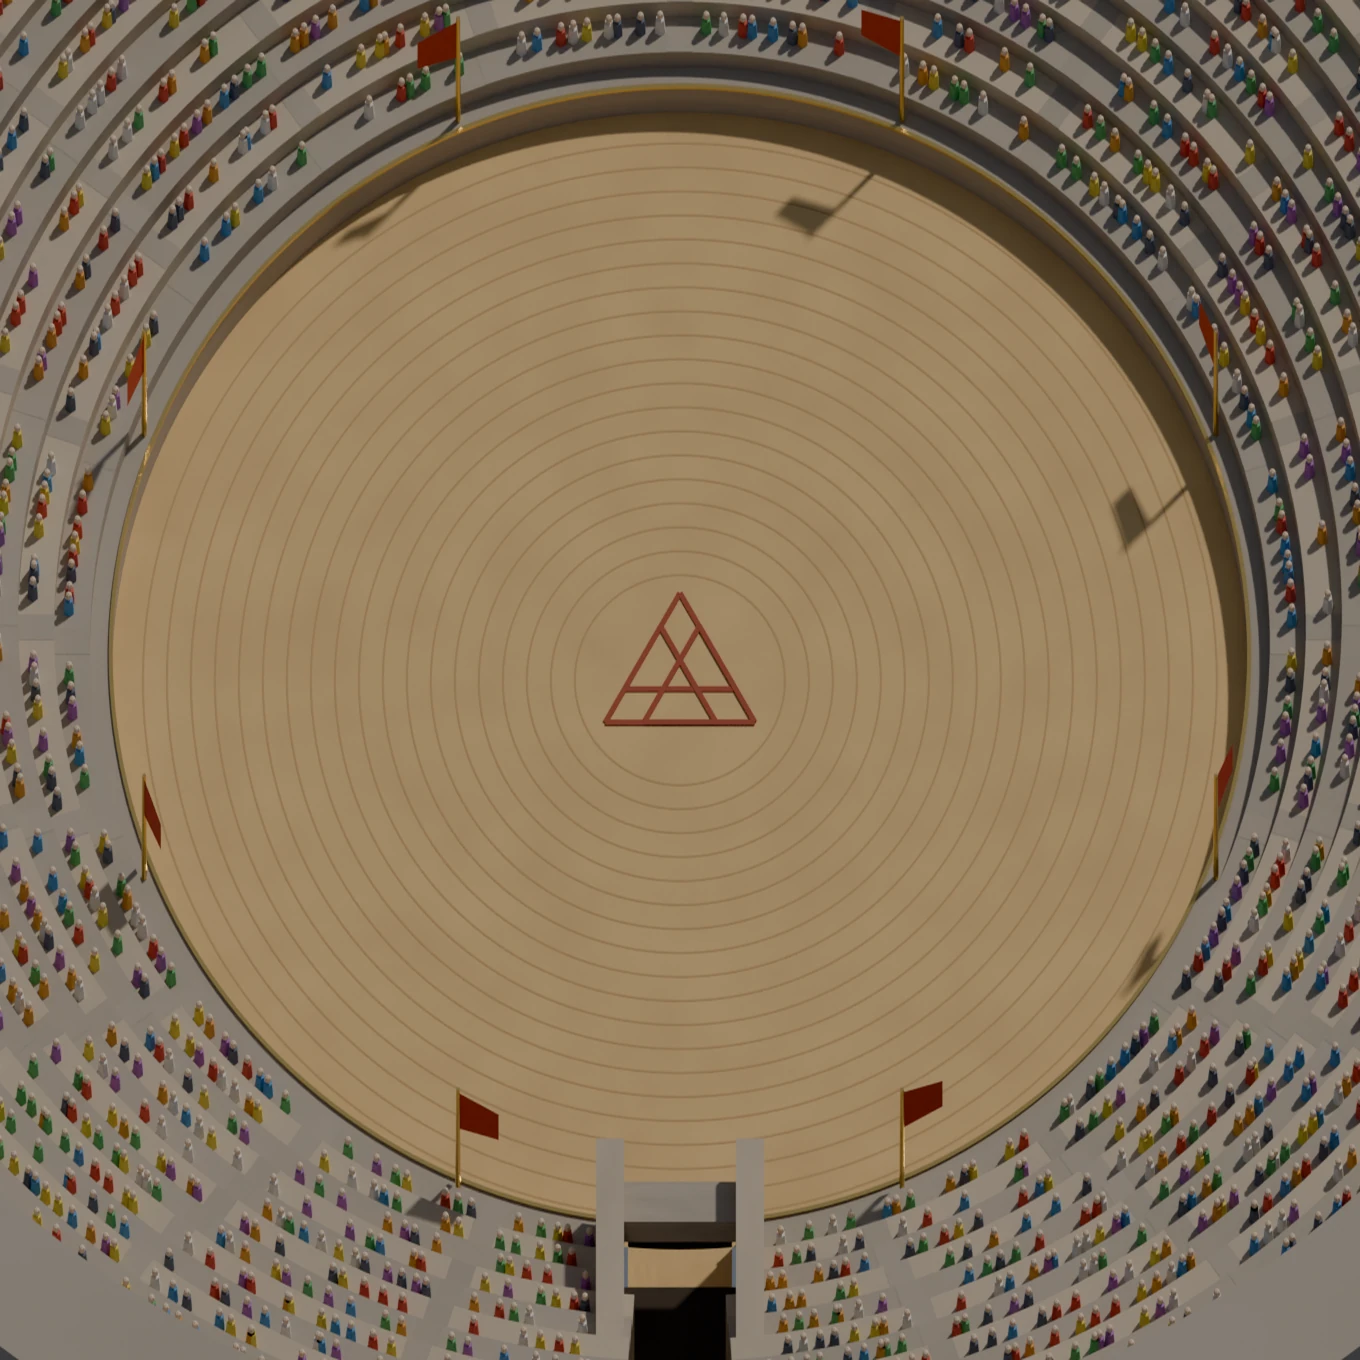
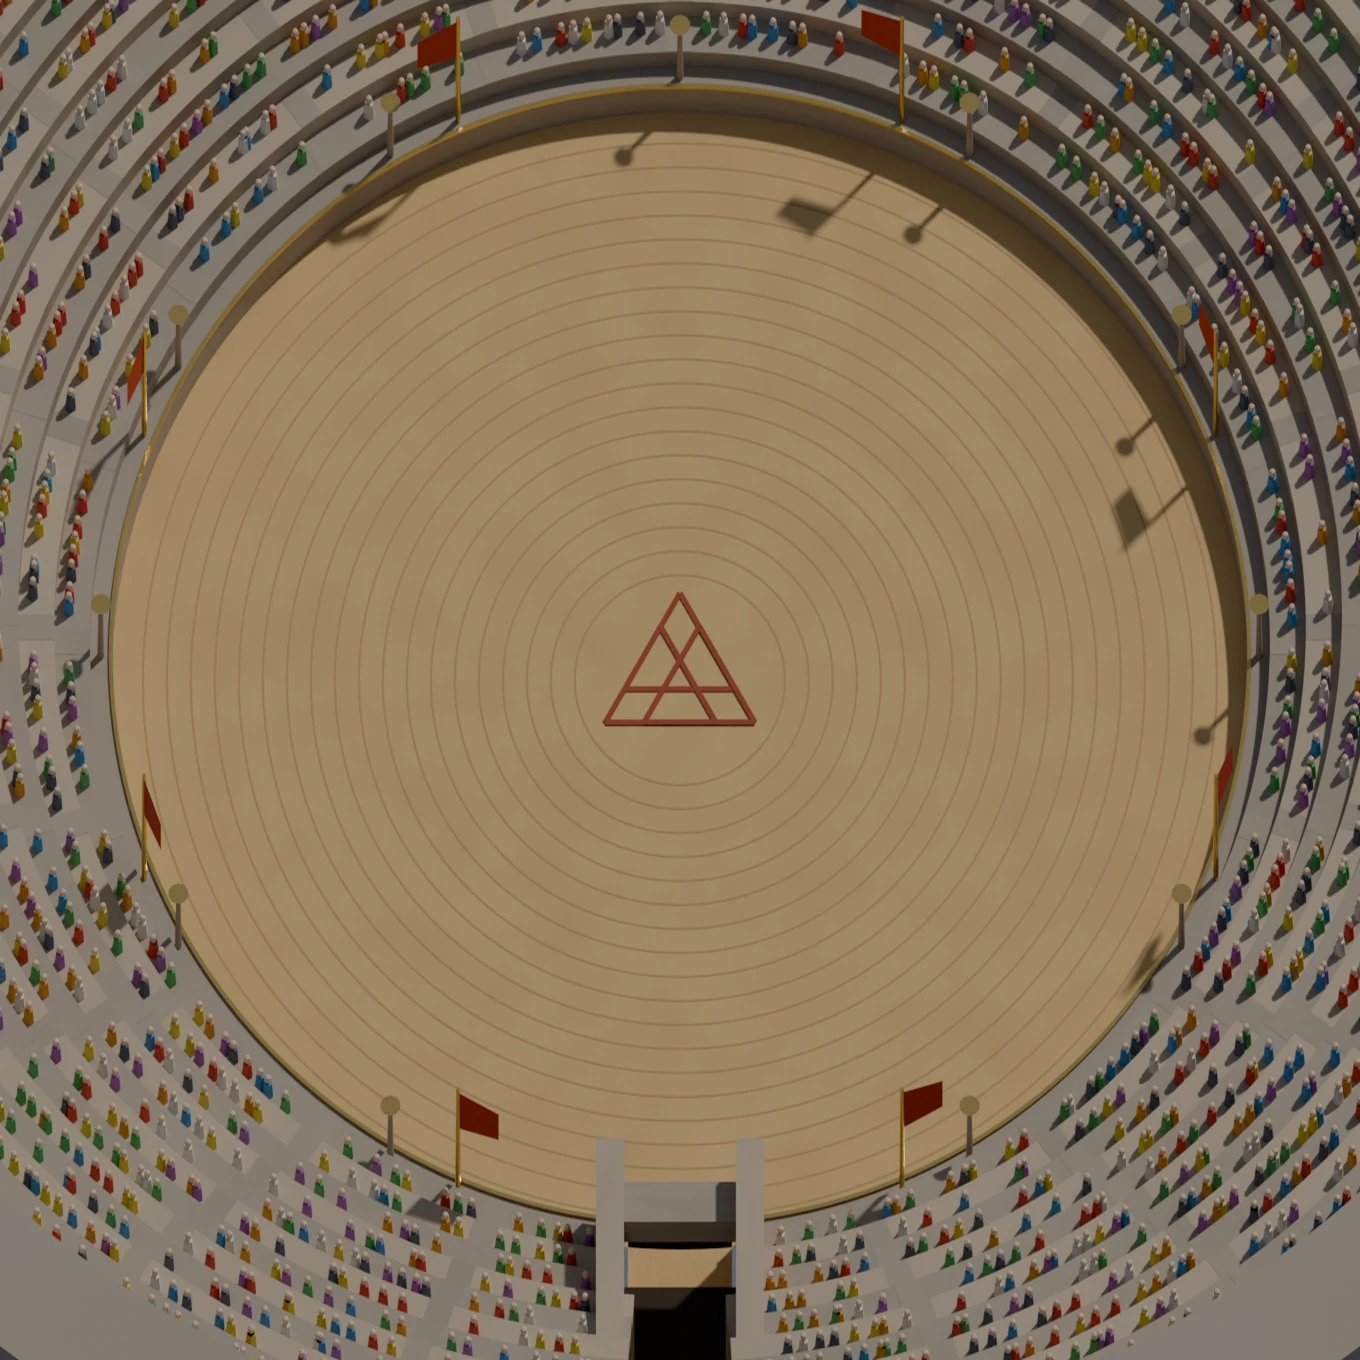
Colosseum life: 11 torches (poles and bowls in the 3D render, animated flames with embers and glow in game), crowd excitement driven by fights in the arena with murmurs, confetti from the stands and a full cheer wave sweeping the tiers with a roar
Claude-Session: https://claude.ai/code/session_017QrEU6PVR1NvrPzc5r5uQv

diff --git a/index.html b/index.html
@@ -13,8 +13,8 @@
   <meta name="description" content="IRON VALHALLA — เกม RPG หุ่นยนต์แอนดรอยด์ในโลกตำนานนอร์ส เล่นบนเบราว์เซอร์">
   <link rel="preconnect" href="https://fonts.googleapis.com">
   <link href="https://fonts.googleapis.com/css2?family=Cinzel:wght@600;800&family=Kanit:wght@400;500;600;700;800&family=Noto+Sans+Thai:wght@400;500;600;700&family=IBM+Plex+Sans+Thai:wght@400;500;600&family=IBM+Plex+Mono:wght@500;600&display=swap" rel="stylesheet">
-  <link rel="stylesheet" href="css/style.css?v=202610021629">
-  <link rel="stylesheet" href="css/visor.css?v=202610021629">
+  <link rel="stylesheet" href="css/style.css?v=202610021637">
+  <link rel="stylesheet" href="css/visor.css?v=202610021637">
 </head>
 <body class="visor">
   <canvas id="cv"></canvas>
@@ -284,52 +284,52 @@
   </div>
 
   <script src="https://cdn.jsdelivr.net/npm/@supabase/supabase-js@2.45.4/dist/umd/supabase.min.js"></script>
-  <script src="js/i18n.js?v=202610021629"></script>
-  <script src="js/online.config.js?v=202610021629"></script>
-  <script src="js/data.js?v=202610021629"></script>
-  <script src="js/art.js?v=202610021629"></script>
-  <script src="js/util.js?v=202610021629"></script>
-  <script src="js/maps.js?v=202610021629"></script>
-  <script src="js/flora.js?v=202610021629"></script>
-  <script src="js/townmap.js?v=202610021629"></script>
-  <script src="js/world.js?v=202610021629"></script>
-  <script src="js/sprites.js?v=202610021629"></script>
-  <script src="js/rig.js?v=202610021629"></script>
-  <script src="js/pose.js?v=202610021629"></script>
-  <script src="js/anim.js?v=202610021629"></script>
-  <script src="js/paperdoll_data.js?v=202610021629"></script>
-  <script src="js/paperdoll_fix.js?v=202610021629"></script>
-  <script src="js/paperdoll_depth.js?v=202610021629"></script>
-  <script src="js/paperdoll.js?v=202610021629"></script>
-  <script src="js/armed_trail.js?v=202610021629"></script>
-  <script src="js/weapontrail.js?v=202610021629"></script>
-  <script src="js/sound.js?v=202610021629"></script>
-  <script src="js/music.js?v=202610021629"></script>
-  <script src="js/title.js?v=202610021629"></script>
-  <script src="js/passive.js?v=202610021629"></script>
-  <script src="js/game.js?v=202610021629"></script>
-  <script src="js/npc.js?v=202610021629"></script>
-  <script src="js/bot.js?v=202610021629"></script>
-  <script src="js/online.js?v=202610021629"></script>
-  <script src="js/party.js?v=202610021629"></script>
-  <script src="js/trade.js?v=202610021629"></script>
-  <script src="js/fx2.js?v=202610021629"></script>
-  <script src="js/juice.js?v=202610021629"></script>
-  <script src="js/render.js?v=202610021629"></script>
-  <script src="js/ui.js?v=202610021629"></script>
-  <script src="js/pad.js?v=202610021629"></script>
-  <script src="js/nav.js?v=202610021629"></script>
-  <script src="js/quest.js?v=202610021629"></script>
-  <script src="js/daily.js?v=202610021629"></script>
-  <script src="js/story.js?v=202610021629"></script>
-  <script src="js/content_ch6.js?v=202610021629"></script>
-  <script src="js/loot.js?v=202610021629"></script>
-  <script src="js/balance.js?v=202610021629"></script>
-  <script src="js/worldboss.js?v=202610021629"></script>
-  <script src="js/classbook.js?v=202610021629"></script>
-  <script src="js/gacha.js?v=202610021629"></script>
-  <script src="js/emote.js?v=202610021629"></script>
-  <script src="js/feel.js?v=202610021629"></script>
-  <script src="js/main.js?v=202610021629"></script>
+  <script src="js/i18n.js?v=202610021637"></script>
+  <script src="js/online.config.js?v=202610021637"></script>
+  <script src="js/data.js?v=202610021637"></script>
+  <script src="js/art.js?v=202610021637"></script>
+  <script src="js/util.js?v=202610021637"></script>
+  <script src="js/maps.js?v=202610021637"></script>
+  <script src="js/flora.js?v=202610021637"></script>
+  <script src="js/townmap.js?v=202610021637"></script>
+  <script src="js/world.js?v=202610021637"></script>
+  <script src="js/sprites.js?v=202610021637"></script>
+  <script src="js/rig.js?v=202610021637"></script>
+  <script src="js/pose.js?v=202610021637"></script>
+  <script src="js/anim.js?v=202610021637"></script>
+  <script src="js/paperdoll_data.js?v=202610021637"></script>
+  <script src="js/paperdoll_fix.js?v=202610021637"></script>
+  <script src="js/paperdoll_depth.js?v=202610021637"></script>
+  <script src="js/paperdoll.js?v=202610021637"></script>
+  <script src="js/armed_trail.js?v=202610021637"></script>
+  <script src="js/weapontrail.js?v=202610021637"></script>
+  <script src="js/sound.js?v=202610021637"></script>
+  <script src="js/music.js?v=202610021637"></script>
+  <script src="js/title.js?v=202610021637"></script>
+  <script src="js/passive.js?v=202610021637"></script>
+  <script src="js/game.js?v=202610021637"></script>
+  <script src="js/npc.js?v=202610021637"></script>
+  <script src="js/bot.js?v=202610021637"></script>
+  <script src="js/online.js?v=202610021637"></script>
+  <script src="js/party.js?v=202610021637"></script>
+  <script src="js/trade.js?v=202610021637"></script>
+  <script src="js/fx2.js?v=202610021637"></script>
+  <script src="js/juice.js?v=202610021637"></script>
+  <script src="js/render.js?v=202610021637"></script>
+  <script src="js/ui.js?v=202610021637"></script>
+  <script src="js/pad.js?v=202610021637"></script>
+  <script src="js/nav.js?v=202610021637"></script>
+  <script src="js/quest.js?v=202610021637"></script>
+  <script src="js/daily.js?v=202610021637"></script>
+  <script src="js/story.js?v=202610021637"></script>
+  <script src="js/content_ch6.js?v=202610021637"></script>
+  <script src="js/loot.js?v=202610021637"></script>
+  <script src="js/balance.js?v=202610021637"></script>
+  <script src="js/worldboss.js?v=202610021637"></script>
+  <script src="js/classbook.js?v=202610021637"></script>
+  <script src="js/gacha.js?v=202610021637"></script>
+  <script src="js/emote.js?v=202610021637"></script>
+  <script src="js/feel.js?v=202610021637"></script>
+  <script src="js/main.js?v=202610021637"></script>
 </body>
 </html>

diff --git a/js/feel.js b/js/feel.js
@@ -326,6 +326,7 @@ const Feel = (() => {
       applyHit = function (m, r) { // eslint-disable-line no-global-assign
         const res = a0.apply(this, arguments);
         try { if (m && !m.isPlayer && r && !r.miss && G.player && !G.player.dead) F.ultGain(2); } catch (e) { /* ภาพล้วน */ }
+        try { if (G.map && G.map.arena && r && !r.miss) F.cheer(r.crit ? 0.6 : m && m.isPlayer ? 0.3 : 0.12); } catch (e) { /* ภาพล้วน */ }
         return res;
       };
       applyHit._feel = true;
@@ -348,6 +349,7 @@ const Feel = (() => {
       damagePlayer = function () { // eslint-disable-line no-global-assign
         const p = G.player;
         if (p && p.invulnUntil > G.time) { if (Math.random() < 0.3) addFloater(p.x, p.y - 1.4, 'Block', '#fff1a8'); return; } // โล่วาลคิรี
+        if (G.map && G.map.arena && G.map.def.pvp) F.cheer(0.3); // โดนตีในลานประลอง = ผู้ชมฮือ
         return d0.apply(this, arguments);
       };
       damagePlayer._feel = true;
@@ -396,6 +398,49 @@ const Feel = (() => {
       if (best < 4.5) { const v = 0.022 * (1 - best / 4.5); chime(110, 0, v, 1.3); chime(165, 0.02, v * 0.6, 1.2); }
     };
     setInterval(F.warpHum, 1100);
+    // ---------- ผู้ชมโคลอสเซียม: ตื่นเต้นตามการต่อสู้ในลาน → คลื่นเชียร์รอบอัฒจันทร์ + กระดาษสีปลิว + เสียงฮือ ----------
+    F.crowd = { e: 0, wave: -9, conf: [], last: 0 };
+    F.cheer = amt => {
+      const C = F.crowd, now = performance.now() / 1000;
+      const before = C.e; C.e = Math.min(1.5, C.e + amt);
+      if (C.e >= 1 && before < 1 && now - C.wave > 4) { // ระเบิดเชียร์: คลื่นคนลุกรอบลาน + เสียงฮือดัง
+        C.wave = now;
+        if (typeof Sound !== 'undefined' && Sound.ctx && G.player.options.sound) { Sound.hiss({ ft: 'bandpass', f: 900, to: 600, q: 0.6, dur: 1.6, vol: 0.05 }); Sound.hiss({ ft: 'lowpass', f: 500, dur: 1.8, vol: 0.05 }); }
+      }
+    };
+    F.drawCrowd = (g, map, t) => {
+      const C = F.crowd, A = map.arena; if (!A) return;
+      const dt = Math.min(0.1, t - (C.last || t)); C.last = t;
+      C.e = Math.max(0, C.e - dt * 0.18);
+      const K = R.K, cx = A.cx * TILE, cy = A.cy * TILE;
+      // ฮือเบา ๆ ตามความตื่นเต้น (ทุก ~0.6 วิ)
+      if (C.e > 0.2 && Math.random() < dt * 1.6 && typeof Sound !== 'undefined' && Sound.ctx && G.player.options.sound) Sound.hiss({ ft: 'bandpass', f: 700 + Math.random() * 300, q: 0.5, dur: 0.5, vol: 0.012 * C.e });
+      // กระดาษสีปลิวจากอัฒจันทร์
+      if (C.e > 0.25 && C.conf.length < 260 * C.e) for (let i = 0; i < 6; i++) {
+        const a = Math.random() * Math.PI * 2, r = (A.r + 0.6 + Math.random() * 5) * TILE;
+        C.conf.push({ x: cx + Math.cos(a) * r, y: cy + Math.sin(a) * r, z: 30 + Math.random() * 40, vz: 60 + Math.random() * 50, vx: (Math.random() - 0.5) * 30, s: Math.random() * 6, c: ['#ffd34a', '#ff6a5a', '#ffffff', '#6ff3ff', '#c98aff'][(Math.random() * 5) | 0] });
+      }
+      g.save();
+      C.conf = C.conf.filter(q => q.z > -2);
+      for (const q of C.conf) {
+        q.vz -= 120 * dt; q.z += q.vz * dt; q.x += (q.vx + Math.sin(t * 3 + q.s) * 18) * dt;
+        const sx = q.x, sy = q.y * K - q.z;
+        g.fillStyle = q.c; g.globalAlpha = Math.min(1, q.z / 20 + 0.2);
+        g.save(); g.translate(sx, sy); g.rotate(t * 6 + q.s); g.fillRect(-5, -2.5, 10, 5 * Math.abs(Math.sin(t * 9 + q.s)) + 0.8); g.restore();
+      }
+      // คลื่นเชียร์: แถบแสงกวาดรอบอัฒจันทร์ 1.4 วิ (คนลุกขึ้นทีละโซน)
+      const wk = (performance.now() / 1000 - C.wave) / 1.4;
+      if (wk >= 0 && wk < 1) {
+        const a0 = -Math.PI / 2 + wk * Math.PI * 2;
+        g.globalAlpha = 0.5 * Math.sin(wk * Math.PI); g.globalCompositeOperation = 'lighter';
+        g.translate(cx, cy * K); g.scale(1, K);
+        const gr = g.createConicGradient ? g.createConicGradient(a0 - 0.45, 0, 0) : null;
+        if (gr) { gr.addColorStop(0, 'rgba(255,230,160,0)'); gr.addColorStop(0.06, 'rgba(255,230,160,0.55)'); gr.addColorStop(0.14, 'rgba(255,230,160,0)'); gr.addColorStop(1, 'rgba(255,230,160,0)'); g.fillStyle = gr; }
+        else g.fillStyle = 'rgba(255,230,160,0.2)';
+        g.beginPath(); g.arc(0, 0, (A.r + 10) * TILE, 0, 7); g.arc(0, 0, (A.r + 0.8) * TILE, 0, 7, true); g.fill();
+      }
+      g.restore();
+    };
     setInterval(F.tickChain, 250);
     setTimeout(() => { if (G.player) F.ultDraw(); }, 0);
     window.addEventListener('load', () => F.installMouse()); // updateHover อยู่ใน main.js (โหลดหลังไฟล์นี้)

diff --git a/js/sprites.js b/js/sprites.js
@@ -1174,6 +1174,29 @@ Sprites.drawPortal = (g, p, t) => {
   g.restore();
 };
 
+// เปลวคบเพลิง: แกนขาวเหลือง → ส้ม → แดง ลิ้นไฟสั่นไหว + ประกายลอย + แสงส่องรอบ (lighter)
+Sprites.drawTorch = (g, tc, t) => {
+  const K = typeof R !== 'undefined' && R.K ? R.K : 0.76, lift = tc.h * Math.sqrt(1 - K * K) * TILE;
+  const x = tc.x * TILE, y = tc.y * TILE - lift, f = 0.85 + 0.15 * Math.sin(t * 11 + tc.ph) * Math.sin(t * 7.3 + tc.ph * 2);
+  g.save(); g.globalCompositeOperation = 'lighter';
+  const glow = g.createRadialGradient(x, y - 6, 2, x, y - 6, 70 * f);
+  glow.addColorStop(0, 'rgba(255,170,70,0.42)'); glow.addColorStop(0.4, 'rgba(255,110,30,0.14)'); glow.addColorStop(1, 'rgba(255,90,20,0)');
+  g.fillStyle = glow; g.beginPath(); g.arc(x, y - 6, 70 * f, 0, 7); g.fill();
+  for (let k = 0; k < 3; k++) { // ลิ้นไฟ 3 ชั้น
+    const w = (11 - k * 3) * f, h = (26 - k * 6) * f * (1 + 0.12 * Math.sin(t * 13 + k + tc.ph));
+    const sway = Math.sin(t * 5 + tc.ph + k) * 3;
+    const col = ['rgba(255,80,20,0.75)', 'rgba(255,160,40,0.85)', 'rgba(255,240,190,0.95)'][k];
+    g.fillStyle = col; g.beginPath();
+    g.moveTo(x - w, y); g.quadraticCurveTo(x - w * 0.9, y - h * 0.55, x + sway, y - h); g.quadraticCurveTo(x + w * 0.9, y - h * 0.55, x + w, y); g.quadraticCurveTo(x, y + 4, x - w, y); g.fill();
+  }
+  for (let i = 0; i < 5; i++) { // ประกายไฟลอย
+    const k = (t * 0.9 + i / 5 + tc.ph * 0.01) % 1;
+    g.fillStyle = `rgba(255,${180 - k * 100 | 0},60,${1 - k})`;
+    g.beginPath(); g.arc(x + Math.sin(i * 7 + t * 2) * 6 * k, y - 20 - k * 40, 1.6 * (1 - k) + 0.5, 0, 7); g.fill();
+  }
+  g.restore();
+};
+
 // ------------------------------------------------------------
 //  ไอคอนไอเทม (แคชเป็น dataURL สำหรับ UI และเป็น canvas สำหรับพื้น)
 // ------------------------------------------------------------

diff --git a/js/maps.js b/js/maps.js
@@ -253,6 +253,11 @@ class GameMap {
     }
     for (const p of this.portals) { this.carvePath(p.x, p.y, Math.floor(cx), Math.floor(cy), T.DIRT, 1); this.set(p.x, p.y, T.DIRT); this.set(p.ax, p.ay, T.DIRT); }
     this.arena = { cx, cy, r: R0 };
+    // คบเพลิง (ตรงกับ tools/arena3d.py TORCH_ANGLES/TORCH_TOP): ทุก 30° เว้นช่วงประตูใต้ • พิกัดแมพ: y ของ Blender ชี้เหนือ = ลบ
+    this.torches = [];
+    for (let d = 0; d < 360; d += 30) if (Math.abs(((d - 270 + 540) % 360) - 180) > 20) {
+      const a = d * Math.PI / 180; this.torches.push({ x: cx + (R0 + 0.28) * Math.cos(a), y: cy - (R0 + 0.28) * Math.sin(a), h: 2.22, ph: d });
+    }
   }
 
   // รอยต่อกับแมพข้างเคียง (โลกเชื่อมกันทางกายภาพ — js/world.js):

diff --git a/js/render.js b/js/render.js
@@ -177,6 +177,9 @@ R.render = () => {
 
   // พอร์ทัล
   for (const pt of map.portals) upright((pt.y + 0.5) * TILE, () => Sprites.drawPortal(g, pt, t));
+  // คบเพลิงลานประลอง: เปลวไฟเคลื่อนไหวบนชามเหล็กในภาพ 3D (ยกสูงตามความสูงจริง × sin มุมกล้อง)
+  if (map.torches && map.arenaImg) for (const tc of map.torches) upright(tc.y * TILE, () => Sprites.drawTorch(g, tc, t));
+  if (map.arenaImg && typeof Feel !== 'undefined' && Feel.drawCrowd && R.quality !== 'low') Feel.drawCrowd(g, map, t);
   // ไอเทมบนพื้น
   for (const d of G.drops) upright(d.y * TILE, () => {
     const x = d.x * TILE, y = d.y * TILE;

diff --git a/tools/arena3d.py b/tools/arena3d.py
@@ -14,6 +14,9 @@ ROOT = os.path.dirname(os.path.dirname(os.path.abspath(__file__)))
 MAPW = 34
 K = 0.76
 R0 = MAPW / 2 - 2.8          # รัศมีลานทราย (ตรงกับ maps.js genArena)
+# คบเพลิง 10 ต้น: ทุก 30° เว้นช่วงประตูใต้ (ตรงกับ maps.js genArena → this.torches)
+TORCH_ANGLES = [math.radians(d) for d in range(0, 360, 30) if abs(((d - 270 + 180) % 360) - 180) > 20]
+TORCH_TOP = 0.7 + 1.3 + 0.22   # ความสูงปากชาม (เมตร)
 PX = 40                      # พิกเซลต่อช่อง (TILE)
 
 
@@ -163,6 +166,14 @@ def build(samples, out):
         vs = [bmf.verts.new(v) for v in [(x, y, 3.6), (x + tx * 1.1, y + ty * 1.1, 3.45), (x + tx * 1.1, y + ty * 1.1, 2.7), (x, y, 2.55)]]
         bmf.faces.new(vs)
     obj('poles', bm, M_GOLD); obj('flags', bmf, M_RED)
+
+    # ---------- คบเพลิง (ตัวเสา+ชามเหล็ก — เปลวไฟวาดเคลื่อนไหวในเกม: maps.js arenaTorches) ----------
+    bm = bmesh.new(); bmb = bmesh.new()
+    for a in TORCH_ANGLES:
+        x, y = (R0 + 0.28) * math.cos(a), (R0 + 0.28) * math.sin(a)
+        bmesh.ops.create_cone(bm, cap_ends=True, segments=8, radius1=0.09, radius2=0.06, depth=1.3, matrix=__import__('mathutils').Matrix.Translation((x, y, 0.7 + 0.65)))
+        bmesh.ops.create_cone(bmb, cap_ends=True, segments=10, radius1=0.08, radius2=0.26, depth=0.22, matrix=__import__('mathutils').Matrix.Translation((x, y, 0.7 + 1.3 + 0.11)))
+    obj('torch_poles', bm, M_STONE2); obj('torch_bowls', bmb, M_GOLD)
 
     # ---------- ตราวาลค์นัตบนพื้น ----------
     bm = bmesh.new(); s = 1.6

diff --git a/docs/PENDING.md b/docs/PENDING.md
@@ -93,3 +93,4 @@
 - เสาคบเพลิง 12–16 ต้นรอบกำแพงลาน + คบเพลิงในซุ้มโค้ง • ตัวเสาอยู่ในภาพ 3D (ไม่มีเปลว) → เปลวไฟวาดในเกมเป็นอนุภาคเคลื่อนไหว (ใช้ระบบ ember เดิม) + แสงวาบส่องพื้น (lighter blend รัศมี ~2 ช่อง กะพริบ)
 - โหมดกลางคืนของลานประลอง (เลือกได้/ตามเวลาเครื่อง): ภาพพื้นเรนเดอร์อีกชุดแสงจันทร์ + คบเพลิงเป็นแหล่งแสงหลัก (ใช้ระบบ dark + lightProps เดิมแบบ Wolfwood)
 - 2026-10-02 วาร์ป world-class (ส่วนโค้ด): เดินเข้าประตู = ม่านหมุนดูดแสงสีตามปลายทาง + แฟลช • ถึงปลายทาง = วงแสงกระจาย 3 ชั้น + ประกาย + เสียงระฆัง • เดินใกล้ประตู (≤4.5 ช่อง) ได้ยินเสียงฮัมดังตามระยะ — ยังเหลือ: ซุ้มประตู 3D ตามธีมแมพ, ประตูบอส/ลานประลองพิเศษ
+- 2026-10-02 โคลอสเซียม (ทำแล้วบางส่วน): คบเพลิง 11 ต้นรอบกำแพงลาน (เสา+ชามในภาพ 3D, เปลวไฟเคลื่อนไหว+ประกาย+แสงส่องในเกม) • ผู้ชมตื่นเต้นตามการต่อสู้ในลาน (ตีโดน/คริ/โดนตี PvP): เสียงฮือดังตามความตื่นเต้น, กระดาษสีปลิวจากอัฒจันทร์, ตื่นเต้นเต็มที่ = คลื่นเชียร์แสงกวาดรอบอัฒจันทร์ + เสียงฮือใหญ่ — ยังเหลือ: ผู้ชมเป็นตัวขยับจริง (ชีตท่า), กำแพงซุ้มโค้งโรม, โหมดกลางคืน
